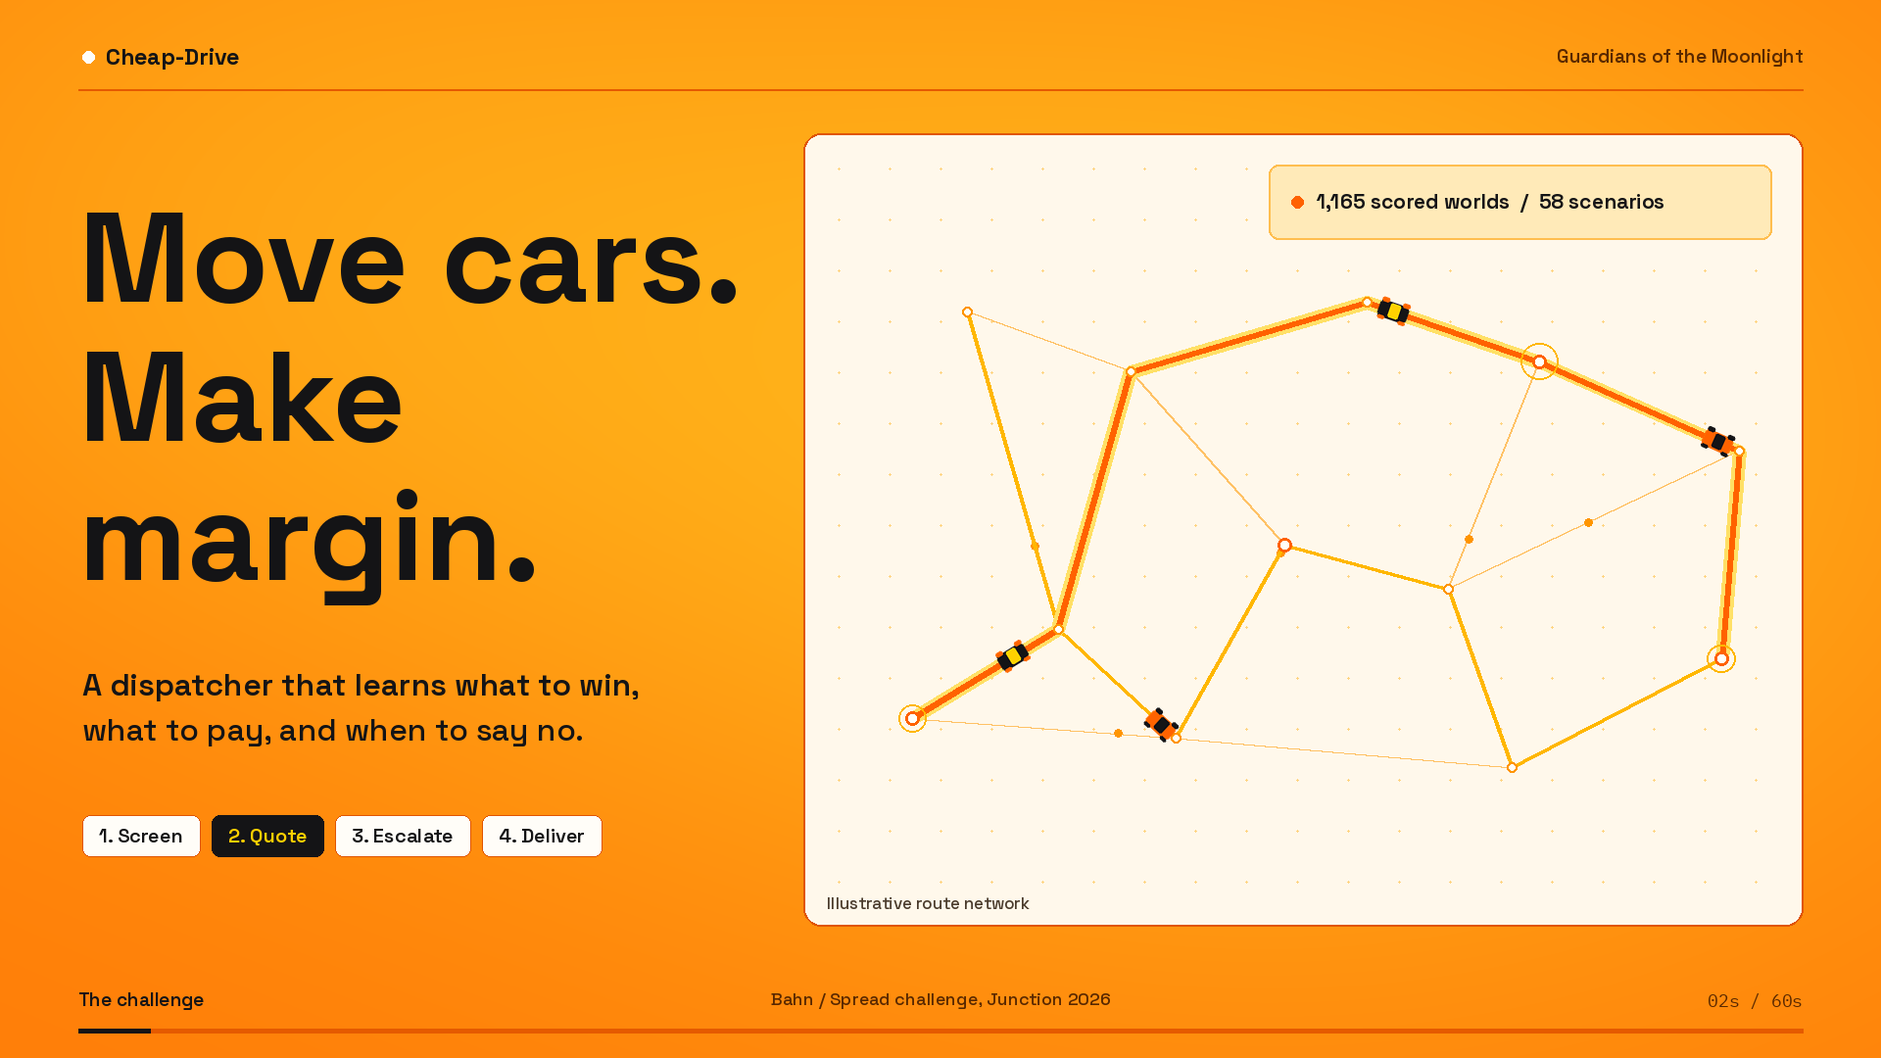
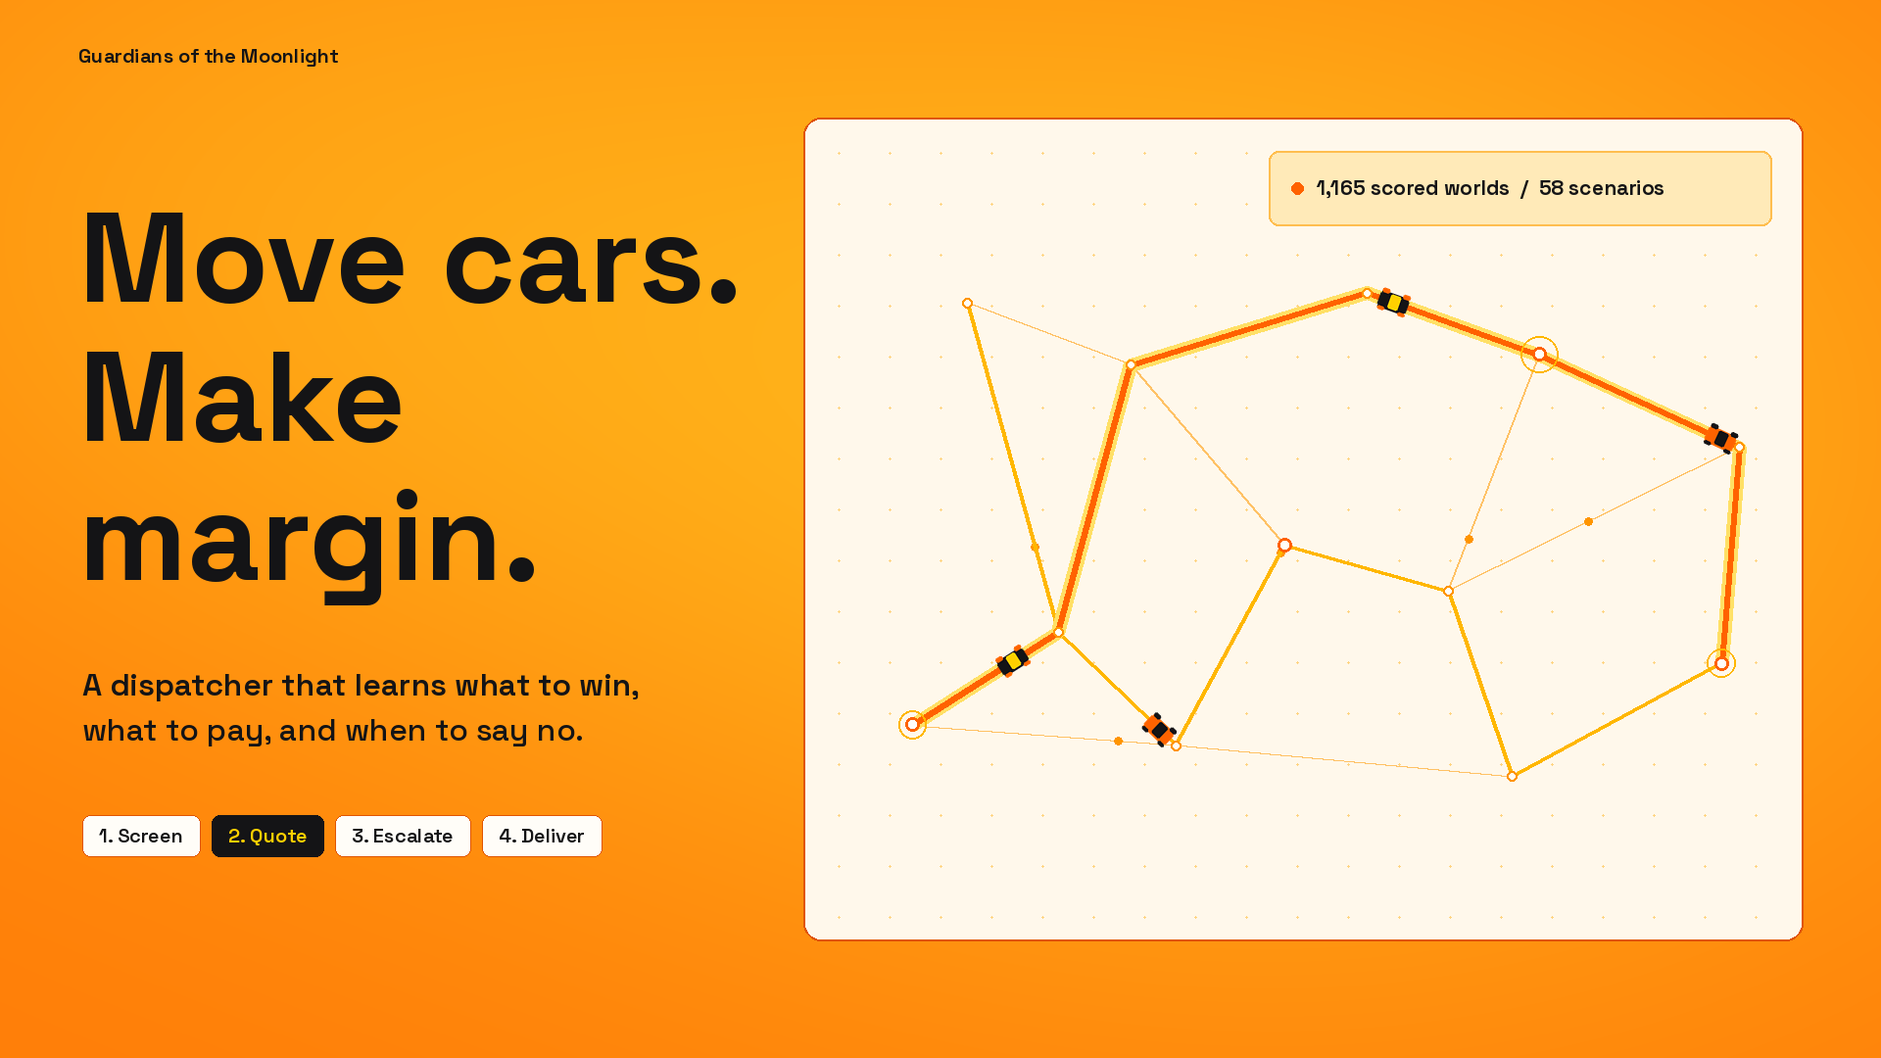
style(demo-video): remove perimeter chrome, second timer, Cheap-Drive label, and footnotes

diff --git a/docs/demo-video/render.py b/docs/demo-video/render.py
@@ -1,5 +1,5 @@
 #!/usr/bin/env python3
-"""Deterministic 60-second Cheap-Drive motion film. No simulator or network requests."""
+"""Deterministic 60-second motion film. No simulator or network requests."""
 from __future__ import annotations
 import argparse, csv, json, math, subprocess, wave
 from functools import lru_cache
@@ -142,21 +142,11 @@ def enter(im, text, x, y, size, t, delay=0, color=INK, weight=600, mono=False, s
 
 
 def chrome(im, idx, t, mode='juicy'):
-    if mode == 'juicy':
-        brand_fg, fg, rule, bar, dot = INK, JUICY_TEXT, '#E55A00', INK, CARD
-    else:
-        brand_fg, fg, rule, bar, dot = INK, MUTED_INK, GOLD_LINE, ORANGE, ORANGE
-
-    circle(im, 90, 58, 6, dot)
-    txt(im, 'Cheap-Drive', 108, 43, 23, brand_fg, 700)
-    txt(im, 'Guardians of the Moonlight', 1840, 45, 19, fg, 600, anchor='ra')
-    line(im, [(80, 91), (1840, 91)], rule)
-
-    txt(im, SCENES[idx][2], 80, 1008, 19, brand_fg, 600)
-    txt(im, 'Bahn / Spread challenge, Junction 2026', 960, 1008, 18, fg, 500, anchor='ma')
-    txt(im, f'{int(t):02d}s / {DURATION}s', 1840, 1009, 18, fg, mono=True, anchor='ra')
-    rect(im, (80, 1050, 1840, 1054), rule)
-    rect(im, (80, 1050, 80 + 1760 * clamp(t / DURATION), 1054), bar)
+    """Minimal team signature only—no side labels, no second timer, no Cheap-Drive header, no footnotes."""
+    if idx == 7:
+        return
+    fg = INK if mode == 'juicy' else MUTED_INK
+    txt(im, 'Guardians of the Moonlight', 80, 44, 20, fg, 650)
 
 
 def route_point(points, p):
@@ -244,13 +234,12 @@ def network(im, t, box=(860, 180, 1830, 900), active=True, bg=CARD, border=GOLD_
             ahead = route_point(r_path, min(p + .002, 1))
             heading = math.degrees(math.atan2(ahead[1] - q[1], ahead[0] - q[0]))
             car(im, *q, color=INK if i % 2 == 0 else ORANGE, scale=.85, angle=heading)
-    txt(im, 'Illustrative route network', x + 24, y2 - 34, 17, MUTED_INK, 500)
     return pts
 
 
 def hero(t):
     im = base_canvas('juicy').copy()
-    network(im, t, (820, 136, 1840, 945), bg=CREAM, border='#E05500')
+    network(im, t, (820, 120, 1840, 960), bg=CREAM, border='#E05500')
     enter(im, 'Move cars.', 80, 180, 130, t, .05, color=INK, weight=700)
     enter(im, 'Make', 80, 322, 130, t, .18, color=INK, weight=700)
     enter(im, 'margin.', 80, 464, 130, t, .30, color=INK, weight=700)
@@ -264,20 +253,19 @@ def hero(t):
             is_act = i == active_step
             w = badge(im, s, xx, 832, color=SUNBURST if is_act else INK, bg=INK if is_act else CARD, border=None if is_act else '#E05500', size=20)
             xx += w + 12
-    rect(im, (1295, 168, 1808, 244), APRICOT, GOLD_LINE, r=10, width=2)
-    circle(im, 1324, 206, 6, ORANGE)
-    txt(im, '1,165 scored worlds  /  58 scenarios', 1344, 192, 21, INK, 650)
+    rect(im, (1295, 154, 1808, 230), APRICOT, GOLD_LINE, r=10, width=2)
+    circle(im, 1324, 192, 6, ORANGE)
+    txt(im, '1,165 scored worlds  /  58 scenarios', 1344, 178, 21, INK, 650)
     return im
 
 
 def dispatcher(t):
     """Kinetic 2x2 Bento Grid showing all 4 dispatch rules in rapid succession."""
     im = base_canvas('citrus').copy()
-    enter(im, 'From request to road in four rules.', 80, 126, 70, t, 0.05, color=INK, weight=700)
-    enter(im, 'Transfer request: Helsinki to Tampere (178 km)  /  Beta & Gamma policy foundation', 84, 218, 26, t, 0.18, color=MUTED_INK, weight=500)
+    enter(im, 'From request to road in four rules.', 80, 114, 70, t, 0.05, color=INK, weight=700)
+    enter(im, 'Transfer request: Helsinki to Tampere (178 km)  /  Beta & Gamma policy foundation', 84, 206, 26, t, 0.18, color=MUTED_INK, weight=500)
 
     phase = min(3, int(t / 2.1))
-    q = clamp((t - phase * 2.1) / 1.8, 0, 1)
 
     cards = [
         (80, 286, '1. Screen the work', 'Admit only feasible routes', [
@@ -290,8 +278,8 @@ def dispatcher(t):
             ('Tomorrow / Later', 'Price individually'),
             ('Dealer trust', 'On-time cap at 25'),
         ]),
-        (80, 618, '3. Escalate driver fee', 'Ramp pay before deadline warning', []),
-        (565, 618, '4. Guard qualification', '90.0% on-time gate every week', [
+        (80, 628, '3. Escalate driver fee', 'Ramp pay before deadline warning', []),
+        (565, 628, '4. Guard qualification', '90.0% on-time gate every week', [
             ('Gig published', '0.80× opening offer'),
             ('Driver booked', 'Segment & pair checks'),
             ('Delivered on time', '≥ 90% required'),
@@ -299,7 +287,7 @@ def dispatcher(t):
     ]
 
     for i, (cx, cy, title, sub, rows) in enumerate(cards):
-        cw, ch = 465, 308
+        cw, ch = 465, 318
         active = i == phase
         done = i < phase
         rect(im, (cx, cy, cx + cw, cy + ch), CARD, None, r=16)
@@ -315,26 +303,25 @@ def dispatcher(t):
         if i == 2:
             p_ramp = smooth(clamp((t - 2.0) / 4.2))
             val = mix(0.80, 1.50, p_ramp)
-            txt(im, f'{val:.2f}×', cx + 24, cy + 94, 74, ORANGE, 700)
-            txt(im, 'typical fee', cx + 235, cy + 132, 22, MUTED_INK, 600)
-            ry = cy + 216
+            txt(im, f'{val:.2f}×', cx + 24, cy + 98, 74, ORANGE, 700)
+            txt(im, 'typical fee', cx + 235, cy + 136, 22, MUTED_INK, 600)
+            ry = cy + 222
             line(im, [(cx + 28, ry), (cx + cw - 28, ry)], GOLD_TRACK, 10)
             line(im, [(cx + 28, ry), (cx + 28 + (cw - 56) * p_ramp, ry)], ORANGE, 10)
             circle(im, cx + 28 + (cw - 56) * p_ramp, ry, 12, MARIGOLD, outline=ORANGE, width=3)
-            txt(im, '0.80× open', cx + 24, cy + 238, 17, MUTED_INK, mono=True)
-            txt(im, '1.50× at warning', cx + cw - 24, cy + 238, 17, ORANGE, mono=True, anchor='ra')
+            txt(im, '0.80× open', cx + 24, cy + 244, 17, MUTED_INK, mono=True)
+            txt(im, '1.50× at warning', cx + cw - 24, cy + 244, 17, ORANGE, mono=True, anchor='ra')
         else:
             for r_idx, (k, v) in enumerate(rows):
-                yy = cy + 102 + r_idx * 64
+                yy = cy + 106 + r_idx * 66
                 circle(im, cx + 30, yy + 15, 7, ORANGE if (active or done) else GOLD_TRACK)
                 txt(im, k, cx + 48, yy, 22, INK, 600)
                 txt(im, v, cx + cw - 22, yy + 2, 19, ORANGE if (active or done) else MUTED_INK, mono=True, weight=600, anchor='ra')
                 if r_idx < 2:
-                    line(im, [(cx + 22, yy + 48), (cx + cw - 22, yy + 48)], APRICOT)
+                    line(im, [(cx + 22, yy + 50), (cx + cw - 22, yy + 50)], APRICOT)
 
-    network(im, t + 2.0, (1055, 286, 1840, 926), bg=CARD, border=GOLD_LINE)
+    network(im, t + 2.0, (1055, 286, 1840, 946), bg=CARD, border=GOLD_LINE)
     badge(im, f'Active step: {cards[phase][2]}', 1085, 314, color=INK, bg=MARIGOLD, size=20)
-    txt(im, 'Illustrative replay: Beta & Gamma dispatch loop with compressed timing.', 84, 952, 19, MUTED_INK)
     return im
 
 
@@ -361,20 +348,23 @@ def observability(t):
     im.paste(crop, (755, 172))
     rect(im, (755, 172, 1843, 946), None, INK, r=10, width=3)
     badge(im, 'Real offline report (Fixed baseline, level 4)', 755, 114, color=SUNBURST, bg=INK, size=19)
-    txt(im, 'Tooling example; displayed scores come from the fixed baseline run.', 755, 958, 18, INK, 600)
     return im
 
 
 @lru_cache(maxsize=1)
 def graph_all_small():
-    tinted = ImageChops.multiply(CHART_ALL, Image.new('RGB', CHART_ALL.size, CREAM))
-    return tinted.resize((1790, 868), Image.Resampling.LANCZOS)
+    tinted = ImageChops.multiply(CHART_ALL, Image.new('RGB', CHART_ALL.size, CREAM)).resize((1790, 868), Image.Resampling.LANCZOS)
+    # Mask embedded bottom footnotes from the matplotlib export
+    rect(tinted, (0, 765, 1790, 868), CREAM)
+    return tinted
 
 
 @lru_cache(maxsize=1)
 def graph_stages_small():
-    tinted = ImageChops.multiply(CHART_STAGES, Image.new('RGB', CHART_STAGES.size, CARD))
-    return tinted.resize((910, 650), Image.Resampling.LANCZOS)
+    tinted = ImageChops.multiply(CHART_STAGES, Image.new('RGB', CHART_STAGES.size, CARD)).resize((910, 650), Image.Resampling.LANCZOS)
+    # Mask embedded bottom footnotes from the matplotlib export
+    rect(tinted, (0, 585, 910, 650), CARD)
+    return tinted
 
 
 def experiments(t):
@@ -382,11 +372,9 @@ def experiments(t):
     im = base_canvas('chart').copy()
     im.paste(graph_all_small(), (65, 112))
 
-    # Bottom-right live counter badge in open whitespace
     count = round(1155 * ease(t / 1.0))
     badge(im, f'{count:,} practice + 10 official = 1,165 scored worlds', 1255, 912, color=INK, bg=MARIGOLD, border=ORANGE, size=20)
 
-    # Scan across the 5 main experiment stages (Alpha -> Beta Early -> Beta Late -> Gamma Early -> Gamma Late)
     stages = [
         (1, 'Alpha stage: 677 runs (contextual pricing)'),
         (2, 'Beta Early: 64 runs (trust & fee ramp)'),
@@ -399,7 +387,6 @@ def experiments(t):
         pos = mix(0.0, 4.0, smooth(frac))
         col = 1.0 + pos
         stage_idx = min(4, int(pos + 0.5))
-        # Exact column math from replot.py: left=0.09, right=0.98, xlim=(-0.55, 5.55)
         cx = 65 + 1790 * (0.09 + 0.89 * (col + 0.55) / 6.10)
         hw = 1790 * (0.89 * 0.46 / 6.10)
         rect(im, (cx - hw, 112 + 868 * 0.19, cx + hw, 112 + 868 * 0.77), None, ORANGE, r=6, width=4)
@@ -411,8 +398,8 @@ def experiments(t):
 def failure(t):
     """Why tuning is not validation: stress failure + first Gamma holdout failure vs. 4-stage progression."""
     im = base_canvas('sunburst').copy()
-    enter(im, 'Tuning is not validation.', 80, 122, 74, t, 0.05, color=INK, weight=700)
-    enter(im, 'Pushing volume or long routes broke on fresh weeks until recovery controls were repaired.', 84, 214, 25, t, 0.18, color=MUTED_INK, weight=500)
+    enter(im, 'Tuning is not validation.', 80, 114, 74, t, 0.05, color=INK, weight=700)
+    enter(im, 'Pushing volume or long routes broke on fresh weeks until recovery controls were repaired.', 84, 206, 25, t, 0.18, color=MUTED_INK, weight=500)
 
     # Left top card: Stress seed gamma-t04 (232 vs 294 wins)
     rect(im, (80, 278, 885, 602), CARD, outline=GOLD_LINE, r=18, width=2)
@@ -456,48 +443,47 @@ def failure(t):
 
     # Right panel: The 4-panel learning-stages.png chart
     rect(im, (915, 278, 1840, 956), CARD, outline=GOLD_LINE, r=18, width=2)
-    im.paste(graph_stages_small(), (922, 290))
-    # Highlight top-right panel (failed holdout) then bottom-right panel (passed confirmation)
+    im.paste(graph_stages_small(), (922, 305))
     if t < 4.0:
-        rect(im, (1405, 420, 1822, 602), None, DANGER, r=8, width=4)
+        rect(im, (1405, 435, 1822, 617), None, DANGER, r=8, width=4)
     else:
-        rect(im, (1405, 682, 1822, 864), None, ORANGE, r=8, width=4)
+        rect(im, (1405, 697, 1822, 879), None, ORANGE, r=8, width=4)
     return im
 
 
 def gain(t):
     """Fresh Gamma confirmation on 8 unseen weeks (v09–v16): +€2,031/week (+20.21%), 8/8 qualified."""
     im = base_canvas('citrus').copy()
-    enter(im, 'Gamma confirmed on unseen weeks.', 80, 122, 72, t, 0.05, color=INK, weight=700)
-    enter(im, 'Notes + repaired pairs + segment controls  /  8 untouched confirmation seeds (gamma-v09…v16)', 84, 212, 25, t, 0.18, color=MUTED_INK, weight=500)
+    enter(im, 'Gamma confirmed on unseen weeks.', 80, 114, 72, t, 0.05, color=INK, weight=700)
+    enter(im, 'Notes + repaired pairs + segment controls  /  8 untouched confirmation seeds (gamma-v09…v16)', 84, 204, 25, t, 0.18, color=MUTED_INK, weight=500)
 
     p = ease((t - 0.25) / 1.1)
     txt(im, f'+€{2030.845 * p:,.0f}', 76, 288, 152, ORANGE, 700)
     txt(im, 'mean margin gain / week (+20.21%)', 84, 476, 30, INK, 650)
     txt(im, 'Beta €10,047.87  →  Gamma €12,078.71', 84, 522, 22, MUTED_INK, mono=True, weight=600)
 
-    badge(im, '8/8 weeks positive   ·   8/8 qualified', 84, 582, color=INK, bg=MARIGOLD, border=ORANGE, size=21)
-    badge(im, 'Worst on-time: 93.67% → 96.95%', 84, 638, color=CARD, bg=ORANGE, size=21)
+    badge(im, '8/8 weeks positive   ·   8/8 qualified', 84, 588, color=INK, bg=MARIGOLD, border=ORANGE, size=21)
+    badge(im, 'Worst on-time: 93.67% → 96.95%', 84, 646, color=CARD, bg=ORANGE, size=21)
 
-    rect(im, (84, 706, 730, 916), CARD, outline=GOLD_LINE, r=16, width=2)
-    txt(im, 'What changed in Gamma Late:', 110, 726, 22, INK, 700)
+    rect(im, (84, 718, 730, 946), CARD, outline=GOLD_LINE, r=16, width=2)
+    txt(im, 'What changed in Gamma Late:', 110, 742, 22, INK, 700)
     bullets = [
         '1. Note-aware admission & pricing adjustments',
         '2. Repaired driver-pair & capacity brake logic',
         '3. Segment-level fee & slack controls',
     ]
     for i, b_txt in enumerate(bullets):
-        txt(im, b_txt, 110, 768 + i * 42, 21, MUTED_INK, 600)
+        txt(im, b_txt, 110, 788 + i * 44, 21, MUTED_INK, 600)
 
     # Right panel: Paired 8-week margin bars (v09–v16) + On-Time Share (%) trajectory
-    rect(im, (765, 276, 1840, 916), CARD, outline=GOLD_LINE, r=18, width=2)
-    txt(im, 'Paired weekly margin (seeds v09–v16)', 800, 300, 23, INK, 700)
-    rect(im, (1325, 304, 1349, 322), GOLD_TRACK, r=3)
-    txt(im, 'Beta baseline', 1357, 300, 19, MUTED_INK, 600)
-    rect(im, (1515, 304, 1539, 322), ORANGE, r=3)
-    txt(im, 'Gamma Late (confirmed)', 1547, 300, 19, ORANGE, 700)
+    rect(im, (765, 276, 1840, 946), CARD, outline=GOLD_LINE, r=18, width=2)
+    txt(im, 'Paired weekly margin (seeds v09–v16)', 800, 304, 23, INK, 700)
+    rect(im, (1325, 308, 1349, 326), GOLD_TRACK, r=3)
+    txt(im, 'Beta baseline', 1357, 304, 19, MUTED_INK, 600)
+    rect(im, (1515, 308, 1539, 326), ORANGE, r=3)
+    txt(im, 'Gamma Late (confirmed)', 1547, 304, 19, ORANGE, 700)
 
-    base_y = 650
+    base_y = 665
     line(im, [(800, base_y), (1805, base_y)], GOLD_LINE, 2)
     ot_pts_beta = []
     ot_pts_gamma = []
@@ -514,19 +500,17 @@ def gain(t):
         if pp > 0.4:
             txt(im, f'+€{d_val:,.0f}', x + 44, base_y - max(bh, gh) - 28, 17, ORANGE, mono=True, weight=700, anchor='ma')
 
-        # Bottom sub-panel: On-time share (%) from 89% to 100%
         ot_b = float(r['baseline_on_time']) * 100
         ot_g = float(r['candidate_on_time']) * 100
         cx = x + 44
-        yb = 848 - 125 * ((ot_b - 89) / 11)
-        yg = 848 - 125 * ((ot_g - 89) / 11)
+        yb = 868 - 125 * ((ot_b - 89) / 11)
+        yg = 868 - 125 * ((ot_g - 89) / 11)
         ot_pts_beta.append((cx, yb))
         ot_pts_gamma.append((cx, yg))
-        txt(im, f'v{i + 9:02d}', cx, 864, 18, INK, mono=True, weight=600, anchor='ma')
+        txt(im, f'v{i + 9:02d}', cx, 884, 18, INK, mono=True, weight=600, anchor='ma')
 
-    # On-time trajectory sub-chart
-    txt(im, 'On-time delivery share (%) vs. 90% qualification gate', 800, 678, 19, MUTED_INK, 600)
-    gate_y = 848 - 125 * ((90 - 89) / 11)
+    txt(im, 'On-time delivery share (%) vs. 90% qualification gate', 800, 694, 19, MUTED_INK, 600)
+    gate_y = 868 - 125 * ((90 - 89) / 11)
     line(im, [(800, gate_y), (1805, gate_y)], DANGER, 2)
     txt(im, '90% gate', 1805, gate_y - 22, 16, DANGER, mono=True, weight=600, anchor='ra')
     if len(ot_pts_beta) > 1:
@@ -535,16 +519,14 @@ def gain(t):
         for (xb, yb), (xg, yg) in zip(ot_pts_beta, ot_pts_gamma):
             circle(im, xb, yb, 5, CARD, outline=MUTED_INK, width=2)
             circle(im, xg, yg, 6, ORANGE, outline=INK, width=2)
-
-    txt(im, 'Confirmation seeds v09–v16 were held out until candidate selection finished on v01–v08.', 84, 952, 20, MUTED_INK)
     return im
 
 
 def result(t):
     """Both saved 5-week official Beta ranking rounds: Round 5 (€50,541.26) & Round 6 (€59,528.62)."""
     im = base_canvas('sunburst').copy()
-    enter(im, 'Ten official ranking weeks. 10/10 qualified.', 80, 122, 72, t, 0.05, color=INK, weight=700)
-    enter(im, 'Two saved five-week official Beta ranking rounds  /  Every single week above 95.4% on-time', 84, 214, 25, t, 0.18, color=MUTED_INK, weight=600)
+    enter(im, 'Ten official ranking weeks. 10/10 qualified.', 80, 114, 72, t, 0.05, color=INK, weight=700)
+    enter(im, 'Two saved five-week official Beta ranking rounds  /  Every single week above 95.4% on-time', 84, 206, 25, t, 0.18, color=MUTED_INK, weight=600)
 
     rounds_ui = [
         (80, 'Round 5 — Beta (5 official weeks)', 50541.26, 10108.25, 95.49, ROUND5_RUNS, MARIGOLD, INK),
@@ -552,31 +534,29 @@ def result(t):
     ]
     for rx, title, tot, mean_v, worst_ot, runs_list, bar_col, hdr_fg in rounds_ui:
         is_r6 = rx > 500
-        rect(im, (rx, 276, rx + 860, 918), CARD, outline=ORANGE if is_r6 else GOLD_LINE, r=18, width=3 if is_r6 else 2)
-        badge(im, title, rx + 32, 304, color=hdr_fg, bg=ORANGE if is_r6 else MARIGOLD, size=20)
-        badge(im, '5/5 qualified', rx + 675, 304, color=INK, bg=APRICOT, border=GOLD_LINE, size=19)
+        rect(im, (rx, 276, rx + 860, 946), CARD, outline=ORANGE if is_r6 else GOLD_LINE, r=18, width=3 if is_r6 else 2)
+        badge(im, title, rx + 32, 308, color=hdr_fg, bg=ORANGE if is_r6 else MARIGOLD, size=20)
+        badge(im, '5/5 qualified', rx + 675, 308, color=INK, bg=APRICOT, border=GOLD_LINE, size=19)
 
         p_tot = ease((t - 0.25) / 1.1)
-        txt(im, f'€{tot * p_tot:,.2f}', rx + 32, 366, 98, ORANGE if is_r6 else INK, 700)
-        txt(im, f'Mean €{mean_v:,.2f}/week   ·   Worst on-time: {worst_ot:.2f}%', rx + 36, 492, 22, MUTED_INK, mono=True, weight=600)
+        txt(im, f'€{tot * p_tot:,.2f}', rx + 32, 374, 98, ORANGE if is_r6 else INK, 700)
+        txt(im, f'Mean €{mean_v:,.2f}/week   ·   Worst on-time: {worst_ot:.2f}%', rx + 36, 502, 22, MUTED_INK, mono=True, weight=600)
 
-        base_y = 818
+        base_y = 838
         line(im, [(rx + 32, base_y), (rx + 828, base_y)], GOLD_LINE, 2)
         for j, w in enumerate(runs_list):
             bx = rx + 36 + j * 158
             p = ease((t - 0.35 - j * 0.15) / 0.7)
             v = w['score']['marginCents'] / 100.0
             ot = w['score']['onTimeShare'] * 100.0
-            bh = 225 * (v / 14500.0) * p
+            bh = 230 * (v / 14500.0) * p
             rect(im, (bx, base_y - bh, bx + 132, base_y), bar_col, outline=ORANGE if not is_r6 else None, r=6)
             if is_r6 and p > 0.05:
                 rect(im, (bx, base_y - bh, bx + 132, min(base_y, base_y - bh + 8)), SUNBURST, r=3)
             if p > 0.3:
                 txt(im, f'€{v / 1000:.2f}k', bx + 66, base_y - bh - 30, 19, INK, mono=True, weight=700, anchor='ma')
-            txt(im, f'W{j + 1}', bx + 66, base_y + 14, 19, INK, 700, anchor='ma')
-            txt(im, f'{ot:.1f}%', bx + 66, base_y + 42, 17, ORANGE if is_r6 else MUTED_INK, mono=True, weight=600, anchor='ma')
-
-    txt(im, 'Saved official rounds use separate secret worlds; difference reflects world mix, not the new Gamma confirmation.', 84, 952, 20, MUTED_INK)
+            txt(im, f'W{j + 1}', bx + 66, base_y + 16, 19, INK, 700, anchor='ma')
+            txt(im, f'{ot:.1f}%', bx + 66, base_y + 46, 17, ORANGE if is_r6 else MUTED_INK, mono=True, weight=600, anchor='ma')
     return im
 
 
@@ -586,15 +566,15 @@ def ending(t):
     for offset in [-210, 0, 210]:
         line(road_layer, [(1160 + offset, 1080), (1600 + offset, 650), (1400 + offset, 350), (1830 + offset, -50)], ORANGE, 46)
     line(road_layer, [(1160, 1080), (1600, 650), (1400, 350), (1830, -50)], SUNBURST, 6)
-    im.paste(road_layer.crop((0, 108, W, 990)), (0, 108))
+    im.paste(road_layer, (0, 0))
 
-    enter(im, 'Cheap-', 80, 162, 182, t, .05, color=INK, weight=700)
-    enter(im, 'Drive.', 80, 352, 182, t, .18, color=INK, weight=700)
-    enter(im, 'Win the right work.', 88, 618, 50, t, .35, color=INK, weight=650)
-    enter(im, 'Deliver it reliably.', 88, 684, 50, t, .50, color=CARD, weight=650)
-    badge(im, 'Gamma confirmed: +€2,031/wk (+20.21%) on v09–v16', 90, 782, color=SUNBURST, bg=INK, size=22)
-    badge(im, 'Official Beta rounds: €50.5k & €59.5k (10/10 qualified)', 90, 836, color=INK, bg=CARD, border='#E05500', size=21)
-    txt(im, 'github.com/KotvicCodes/Cheap-Drive', 90, 916, 26, INK, mono=True, weight=600)
+    enter(im, 'Guardians', 80, 166, 132, t, .05, color=INK, weight=700)
+    enter(im, 'of the', 80, 304, 132, t, .16, color=INK, weight=700)
+    enter(im, 'Moonlight.', 80, 442, 132, t, .28, color=INK, weight=700)
+    enter(im, 'Win the right work.', 88, 636, 48, t, .42, color=INK, weight=650)
+    enter(im, 'Deliver it reliably.', 88, 700, 48, t, .55, color=CARD, weight=650)
+    badge(im, 'Gamma confirmed: +€2,031/wk (+20.21%) on v09–v16', 90, 796, color=SUNBURST, bg=INK, size=22)
+    badge(im, 'Official Beta rounds: €50.5k & €59.5k (10/10 qualified)', 90, 852, color=INK, bg=CARD, border='#E05500', size=21)
 
     road = [(1370, 1020), (1690, 650), (1490, 350), (1825, 15)]
     for idx_c, offset_p in enumerate([0.12, 0.54]):
@@ -617,8 +597,8 @@ def frame(t):
     if idx and dt < .32:
         xx = round(W * ease(dt / .32))
         prev = FUNCS[idx - 1](SCENES[idx - 1][1] - SCENES[idx - 1][0] + dt)
-        im.paste(prev.crop((xx, 108, W, 990)), (xx, 108))
-        rect(im, (max(0, xx - 12), 108, xx + 2, 990), ORANGE if idx not in [0, 2, 7] else INK)
+        im.paste(prev.crop((xx, 0, W, H)), (xx, 0))
+        rect(im, (max(0, xx - 12), 0, xx + 2, H), ORANGE if idx not in [0, 2, 7] else INK)
     mode = 'juicy' if idx in [0, 2, 7] else 'light'
     chrome(im, idx, t, mode)
     return im
@@ -708,13 +688,10 @@ def stills(out):
         im = frame(t)
         im.save(out / f'frame-{i + 1:02d}-{t:04.1f}s.png')
         thumb = im.resize((640, 360), Image.Resampling.LANCZOS)
-        tile = Image.new('RGB', (640, 396), '#FF8800')
-        tile.paste(thumb, (0, 0))
-        txt(tile, f'{t:05.1f}s', 16, 366, 18, INK, mono=True, weight=600)
-        thumbs.append(tile)
-    sheet = Image.new('RGB', (1920, 1584), '#FF7700')
+        thumbs.append(thumb)
+    sheet = Image.new('RGB', (1920, 1440), '#FF7700')
     for i, thumb in enumerate(thumbs):
-        sheet.paste(thumb, ((i % 3) * 640, (i // 3) * 396))
+        sheet.paste(thumb, ((i % 3) * 640, (i // 3) * 360))
     sheet.save(out / 'contact-sheet.jpg', quality=93)
     sheet.save(ROOT / 'assets/contact-sheet.jpg', quality=93)
     poster = frame(2.5)
